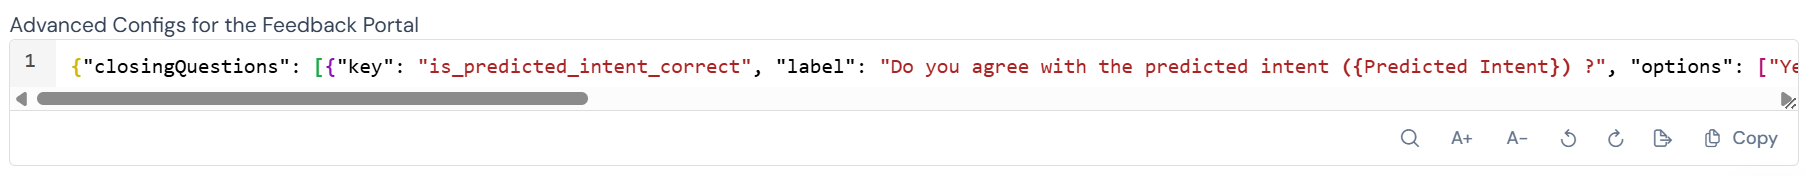
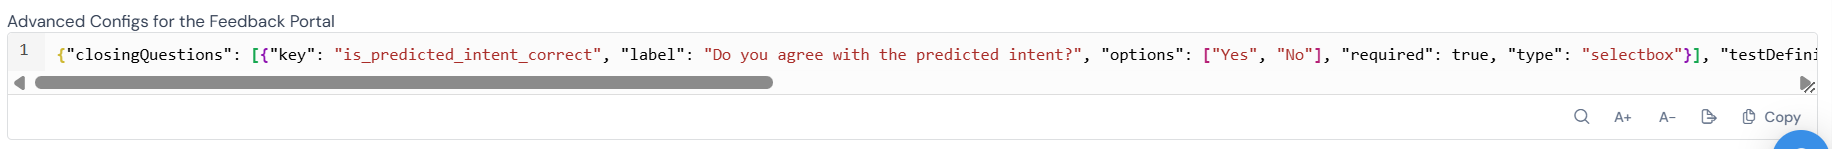
Update Feedback Portals docs with context param and content fixes
- Add context=context argument to processing logic examples
- Update Advanced Configs screenshot
- Include collected_fields mention in Sessions Table description
- Remove redundant tip about optional test definition fields

Pull request: Feedback portal docs

diff --git a/docs/evaluate-and-approve/feedback-portals/index.md b/docs/evaluate-and-approve/feedback-portals/index.md
@@ -86,7 +86,7 @@ Scroll down to the **Pipeline** section and select the pipeline you want to eval
 At a minimum, the processing logic looks like this:
 
 ```python
-return my_pipeline(user_message, history=history)
+return my_pipeline(user_message, history=history, context=context)
 ```
 
 If your pipeline returns useful metrics in the context (such as latency, token counts, or cost), you can surface them as tracked statistics using `collected_fields`:
@@ -94,7 +94,7 @@ If your pipeline returns useful metrics in the context (such as latency, token c
 ```python
 import json
 
-result = my_pipeline(user_message, history=history)
+result = my_pipeline(user_message, history=history, context=context)
 ctx = json.loads(result["context"])
 
 collected_fields["latency_ms"] = ctx.get("latency_ms", "0")
@@ -258,7 +258,7 @@ Once complete, a confirmation banner shows how many turns were run. The AI-gener
 
 ### Sessions Table
 
-All completed sessions are listed in the portal's results table. Each row represents one session and shows the session name, rating summary, status, testing notes, and the date it was created.
+All completed sessions are listed in the portal's results table. Each row represents one session and shows the session name, rating summary, status, testing notes, the date it was created, and any fields populated via `collected_fields`.
 
 ![Portal sessions list showing sessions from multiple contributors with status and testing notes](portal-sessions-list.png)
 
@@ -298,7 +298,6 @@ Shows overall test session performance over time, color-coded by outcome: all li
 
 ## Tips for Portal Designers
 
-- Keep test definition fields optional (omit the `required` property) so testers are not blocked from starting a session.
 - Use `collected_fields` to surface any performance metrics your pipeline tracks — latency, cost, and token counts are especially valuable for benchmarking.
 - Write feedback instructions in plain text without markdown formatting for the best display in the portal UI.
 - Design closing questions to mirror your test definition fields so expected vs actual comparisons are easy to make in the results table.